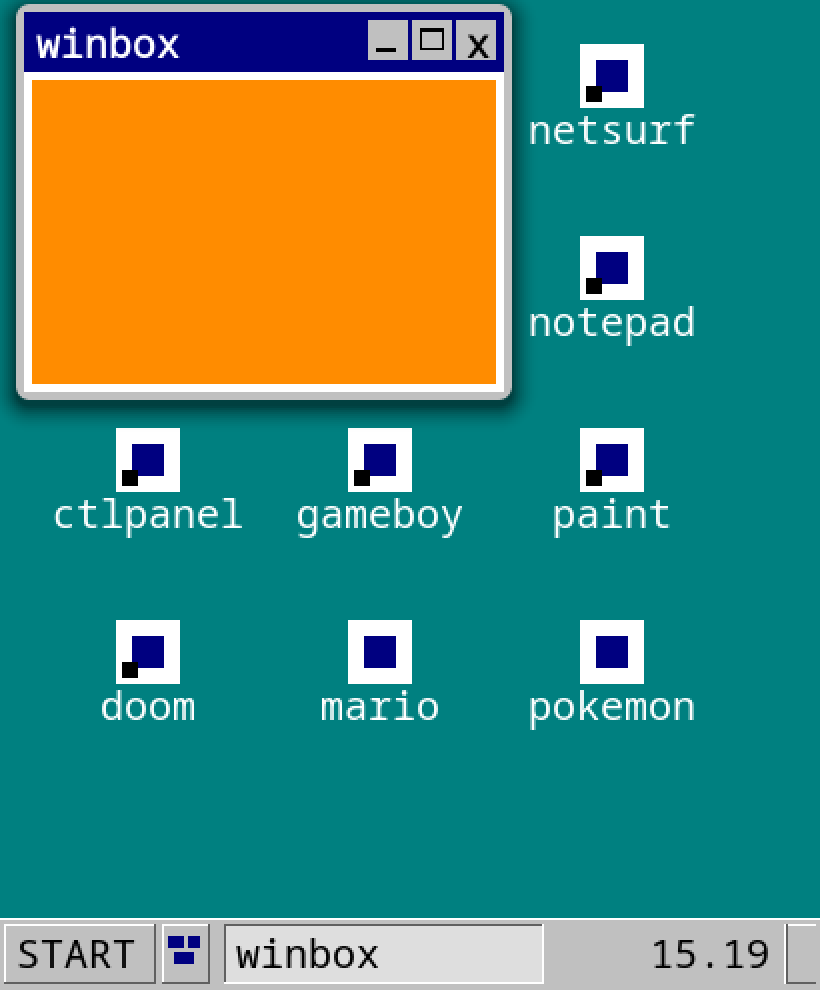
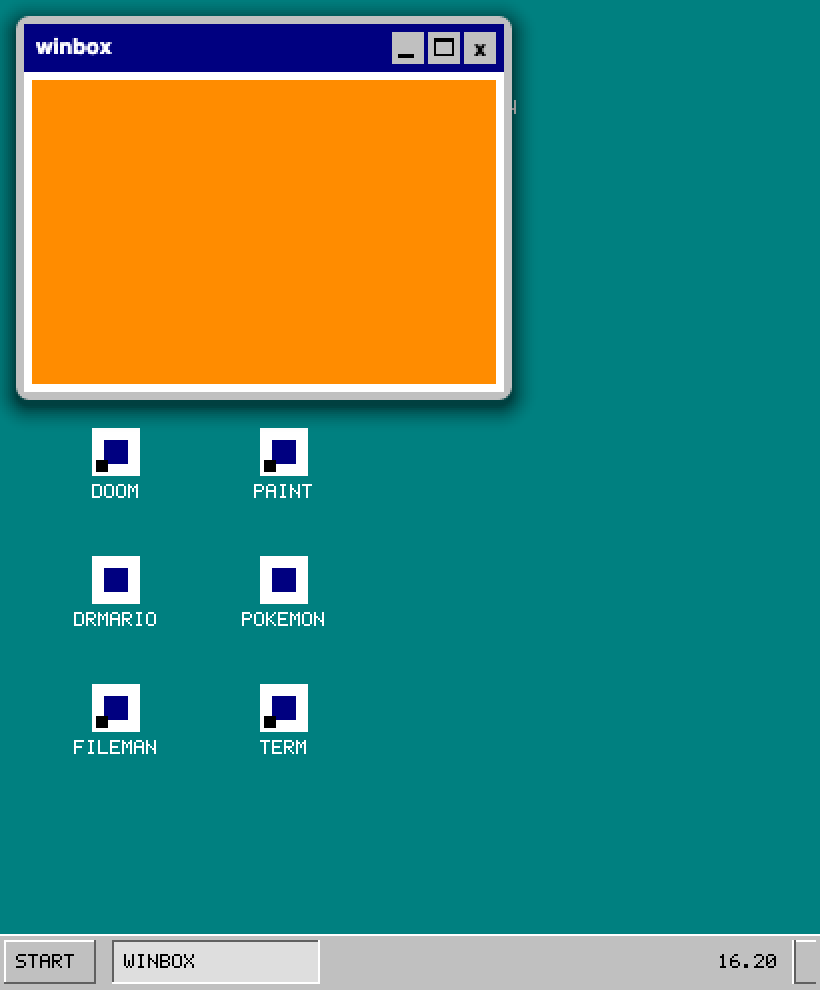
W-388 #388: WM.md chrome bullet states the split hit/draw geometry; drop the sweep-churned PNGs
The Chrome bullet still claimed 'same numbers in hit-testing' and a
16px WM_GRIP — both false since the hit-only constants landed, and the
E/S-fat N/W-thin asymmetry doubly so. It now records that drawn and hit
geometry are deliberately different. The four logs/ PNGs were sweep
snapshot() churn (os-vt2zoom/os-hires write targets, not goldens):
three restored from 54d465d1, the branch-added one removed. The
sweep-overwrites-committed-evidence defect is #399, not this lane.

diff --git a/todos/WM.md b/todos/WM.md
@@ -1281,10 +1281,18 @@ RESIZE/EV_CONFIGURED, `test_wm_e2e.js` real-C resize leg,
   A request that can't reach the client (dead process, full ring) leaves
   no pending state — nothing would ever ack it.
 - **Chrome**: non-borderless windows grew a `WM_BORDER` (4px) Win95-ish
-  frame around title+client — same numbers in hit-testing, the browser
-  compositor, and the headless composite. Drag zones: right edge → E,
-  bottom edge → S, within `WM_GRIP` (16px) of the corner → SE; left/top
-  edges are focus-only (moving-edge resizes deliberately deferred). Drags
+  frame around title+client. Since #388 the DRAWN geometry and the HIT
+  geometry are deliberately DIFFERENT — do not "fix" one to match the
+  other: `WM_BORDER` stays the drawn width (browser compositor + headless
+  composite, unchanged), while hit-testing uses separate, larger
+  constants. The E and S edges take a `WM_BORDER_HIT` (12px) outward
+  band; the N and W edges keep the drawn 4px band and stay focus-only
+  (fattening them steals the cascade-behind title bar's chrome —
+  moving-edge resizes deliberately deferred). Drag zones: right edge → E,
+  bottom edge → S, widening to SE within `WM_GRIP_HIT` (32px) of the
+  corner, plus a `WM_GRIP_IN` (16px) inward square at a RESIZABLE
+  client's bottom-right corner ('down'-only — moves/ups/wheels still
+  reach the app) so a maximized/snapped window stays resizable. Drags
   preview as a rubber-band outline and send ONE configure at release
   (Win95 outline semantics — no per-motion SAB churn). Floor:
   `WM_MIN_SIZE` (32px) per axis.
